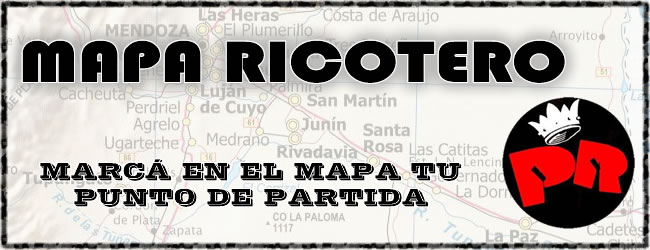
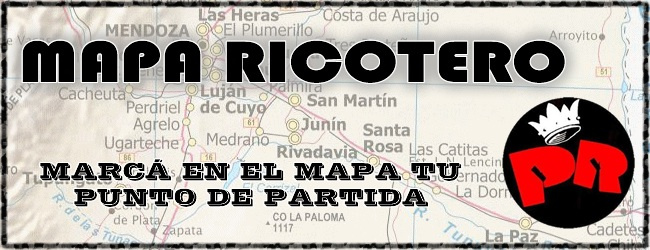
Fondo contacto / imagen mapa ricotero

diff --git a/IndioMendoza2013/Content/SiteBlanco.css b/IndioMendoza2013/Content/SiteBlanco.css
@@ -19,6 +19,12 @@
     background-repeat:no-repeat;
 }
 
+#contactoContent
+{
+    background-image: url('/Content/img/fondoIndio3.png');
+    background-repeat:no-repeat;
+}
+
 .banner-header 
 {
     background-image: url('/Content/img/Indio-Mendoza2013-Header-Blanco.png');
